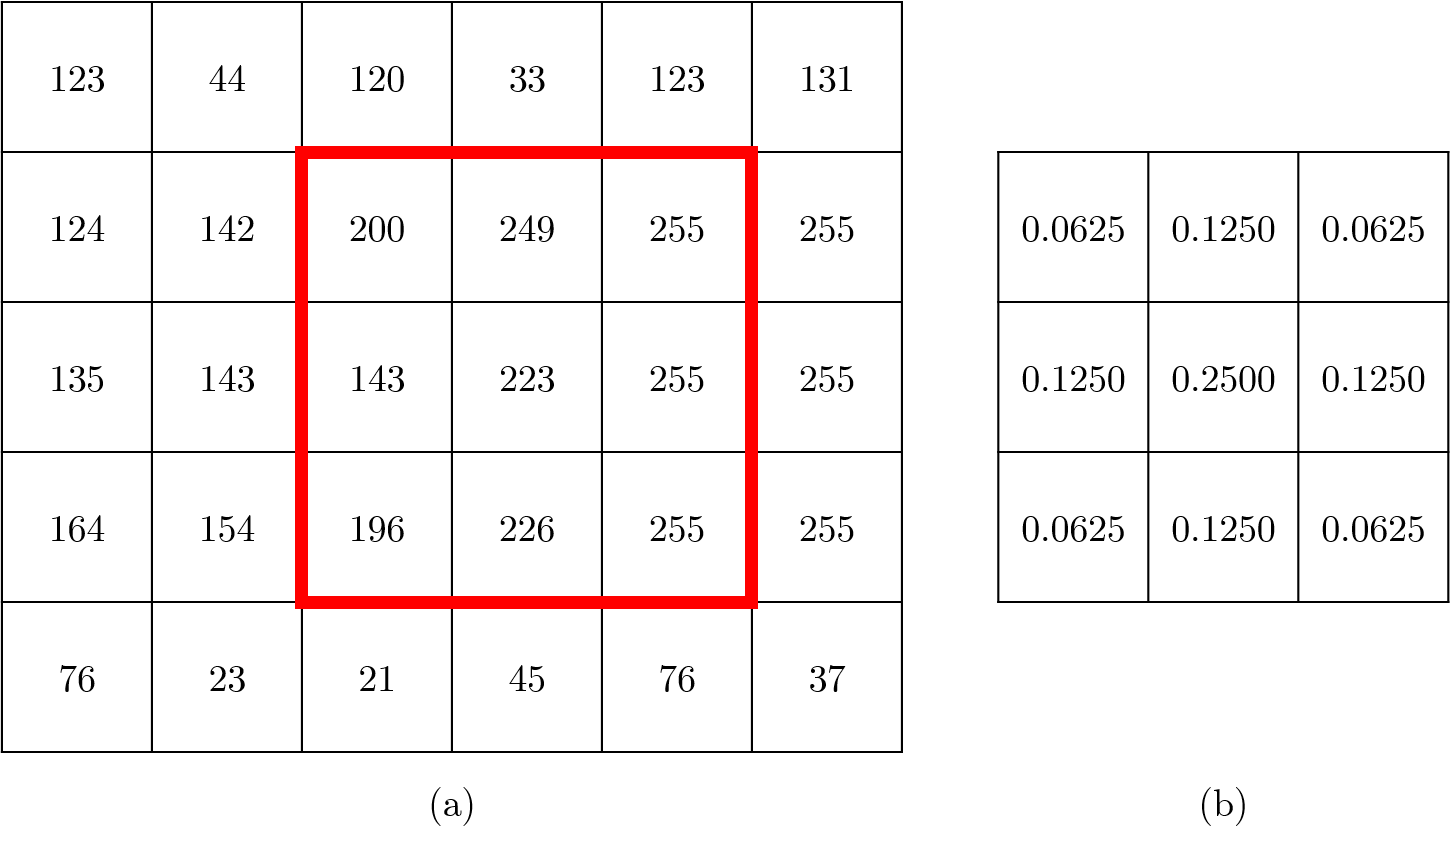
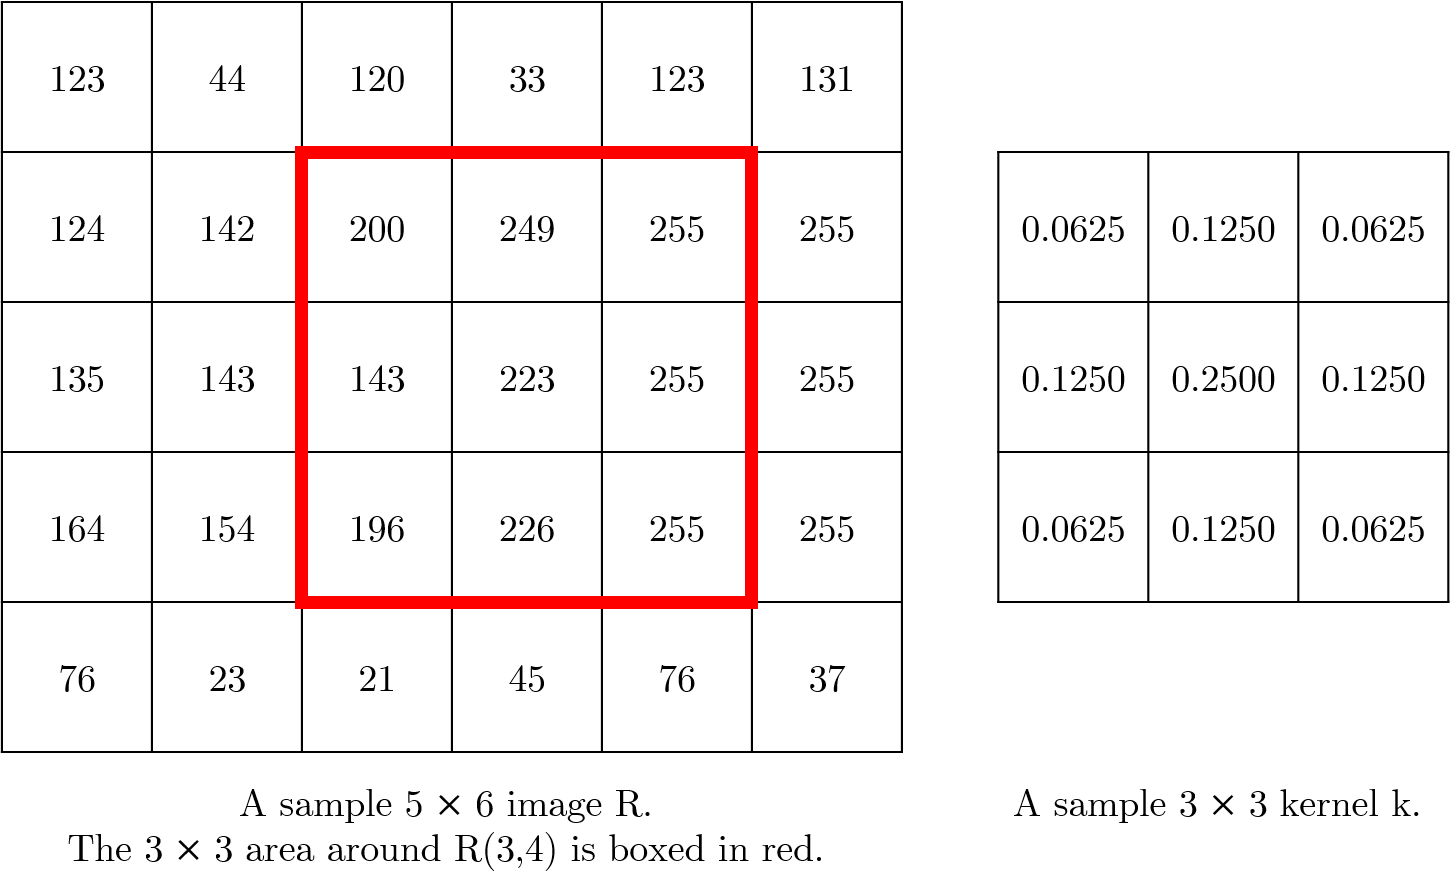
Final edits by Aldrich

diff --git a/parts/03_methodology.tex b/parts/03_methodology.tex
@@ -6,7 +6,7 @@ The study consists of two parts: first, the implementation of the three homomorp
 
 The current version of the OpenCV library (3.4.2) will be forked from the open-source GitHub repository at \url{https://github.com/opencv/opencv}~\cite{bradski_opencv_2000}.
 
-Three homomorphic encryption schemes will be implemented, those presented by Ziad, et al.~\cite{ziad_cryptoimg:_2016}, Dasgupta and Pal~\cite{dasgupta_design_2016} and Smart and Vercauteren~\cite{hutchison_fully_2010}. The encryption and decryption methods will be implemented in Python. However, these methods will be also implemented in C++ if time permits. 
+Three homomorphic encryption schemes will be implemented, those presented by Ziad, et al.~\cite{ziad_cryptoimg:_2016}, Dasgupta and Pal~\cite{dasgupta_design_2016} and Smart and Vercauteren~\cite{hutchison_fully_2010}. The encryption and decryption methods will be implemented in Python. However, these methods will be also implemented in C++ if time permits.
 
 Aside from implementing the homomorphic encryption and decryption algorithms, we will also implement library functions for the following image processing functions, as they are defined in~\cite{gonzalez_digital_2008}. We will also take note of whether or not a candidate operation is impossible to perform under a given cryptosystem.  We let $R(x,y)$ denote the intensity at coordinate $(x,y)$ in the source image, and $S(x,y)$ denote the intensity at coordinate $(x,y)$ in the resulting image. We further suppose that the intensity values of pixels are in the range $[0, L-1]$.
 \begin{description}
@@ -16,9 +16,9 @@ Aside from implementing the homomorphic encryption and decryption algorithms, we
 		\item Log transformation: $S(x,y) = c\log{(1 + R(x,y))}$, $c \geq 0$.
 		\item Power-law transformation: $S(x,y) = c[R(x,y)]^\gamma$, $c > 0, \gamma > 0$.
 	\end{enumerate}
-	\item[Spatial filters.] Filters implemented by performing a convolution between an $M\times N$ source image and an $m\times n$ filter matrix. Let $W$ be a filter matrix. Then the corresponding spatial filter is given by
+	\item[Spatial filters.] Filters implemented by performing a convolution between an $M\times N$ source image and an $m\times n$ kernel. Let $k$ be a kernel. Then the corresponding spatial filter is given by
 	\begin{align}
-		S(x,y) = \sum_{s=1}^m{\sum_{t=1}^n{W(s,t)R(x+s,y+t)}}.
+		S(x,y) = \sum_{s=1}^m{\sum_{t=1}^n{k(s,t)R(x+s,y+t)}}.
 	\end{align}
 	Morphological operations such as erosion and dilation can be achieved using convolution as well.
 \end{description}

diff --git a/parts/01_introduction_01contextofstudy.tex b/parts/01_introduction_01contextofstudy.tex
@@ -1,7 +1,7 @@
 
 \section{Context of the Study}
 
-Digital data privacy and security is a growing concern in various fields, such as cloud computing~\cite{potey_homomorphic_2016}, health information systems~\cite{kester_cryptographic_2015}, and video surveillance~\cite{upmanyu_efficient_2009}. To meet these needs, various cryptosystems have been developed. A cryptosystem is a system which operates on plaintexts, ciphertexts and keys, and has an encryption algorithm, which maps a plaintext to a ciphertext, together with a decryption algorithm, which maps a ciphertext to a plaintext, given an appropriate key~\cite{bauer_cryptosystem_2005}. The encryption and decryption algorithms are chosen such that the plaintext cannot easily be recovered from the ciphertext without knowledge of the key. This allows data to be securely transmitted over an insecure channel. Much research has been done on the development and application of various cryptosystems.
+Digital data privacy and security is a growing concern in various fields, such as cloud computing~\cite{potey_homomorphic_2016}, health information systems~\cite{kester_cryptographic_2015}, and video surveillance~\cite{upmanyu_efficient_2009}. To meet these needs, various cryptosystems have been developed. A cryptosystem is a system which operates on plaintexts, ciphertexts and keys, using an encryption algorithm, which maps a plaintext to a ciphertext, together with a decryption algorithm, which maps a ciphertext to a plaintext, given an appropriate key~\cite{bauer_cryptosystem_2005}. The encryption and decryption algorithms are chosen such that the plaintext cannot easily be recovered from the ciphertext without knowledge of the key. This allows data to be securely transmitted over an insecure channel. Much research has been done on the development and application of various cryptosystems.
 
 One particular application of cryptography is image encryption. While cryptosystems used to encrypt digital data in general, such as the Advanced Encryption Standard (AES) or elliptic curve cryptography, can also be used to encrypt images~\cite{jain_image_2016, singh_image_2015} other algorithms created specifically for image encryption have also been developed~\cite{murugan_survey_2018}.
 

diff --git a/parts/02_relatedliterature_02commonimageprocessingoperations.tex b/parts/02_relatedliterature_02commonimageprocessingoperations.tex
@@ -34,10 +34,10 @@ where $A(x,y)$ represents the entry at the $x$th row and $y$th column of a matri
 \begin{figure*}[!ht]
     \centering
     \includegraphics[width=\textwidth,\keepaspectratio]{Figures/SpatialFilter.png}
-    \caption{(a) A sample image $R$. (b) A sample kernel $k$.}
+    \caption{A sample image $R$ and sample kernel $k$.}
     \label{fig:spatialfilter}
 \end{figure*}
-For example, using the image and kernel given in Figure \ref{fig:spatialfilter}, we can calculate the value in the third row and fourth column of the resulting image $R^\prime$ as follows:
+For example, using the image and $3 \times 3$ kernel given in Figure \ref{fig:spatialfilter}, we can calculate the value in the third row and fourth column of the resulting image $R^\prime$ by adding the products of entries in $k$ with the corresponding entries in $R$, found in an $3 \times 3$ region around $R(3,4)$.
 \begin{align*}
 	R^\prime(3,4) &= \sum_{s=1}^m{\sum_{t=1}^n{k(s,t)R(3+s,4+t)}}\\
 	&= (0.0625\times 200) + (0.1250\times 249) + (0.0625\times 255) \\
@@ -49,7 +49,7 @@ Since spatial filters take values from a contiguous region of pixels, this prese
 
 \subsection{Common Spatial Filtering Kernels}
 Edge detection is used to find and determine the boundaries in an image, commonly used in applications such as image segmentation and feature extraction. This works by detecting so-called \textit{edges}, areas that have abrupt changes in intensity.
-One common method of performing edge detection is the Sobel operator, which uses two spatial filters to approximate the gradient in an image. Given an image $R$, and the kernels
+One common method of performing edge detection is the Sobel operator, which uses two spatial filters to approximate the gradient of an image. Given an image $R$, and the kernels
 \begin{equation}
     g_x =
     \begin{bmatrix}
